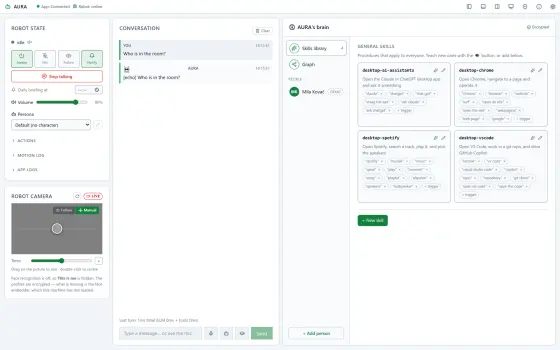
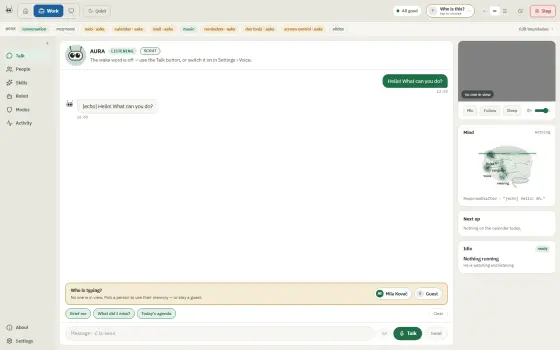
Apps: add Please Do Not Throw Richie and Runtime Rumble, refresh AURA shots
Two Devoxx browser games. Please Do Not Throw Richie takes its screenshots
from its repo; Runtime Rumble keeps none there, so four were captured from
the live game (title, a fight, the roster, the auditorium).

A release asset is only a download if you can install it. Screenshots
attached to release notes and a web game's zipped build no longer count,
so Please Do Not Throw Richie leads with Play instead of a Get button that
opened a page of PNGs. AURA and Ghosts keep theirs: they ship installers.

AURA's gallery was the August set: fetch-screenshots never refetches a file
it already has, so the repo's September refresh never arrived. Refetched,
and the console alt text now describes the current layout.

diff --git a/src/content/apps/please-do-not-throw-richie.md b/src/content/apps/please-do-not-throw-richie.md
@@ -1,0 +1,42 @@
+---
+name: "Please Do Not Throw Richie"
+code: "RICHIE"
+tag: "game"
+cat: "games"
+blurb: "Richie has a keynote in ten minutes and no legs. Hop him, get Voxxy to throw him and Biggy to hit him, and get him from registration to the stage. A Devoxx physics game for the browser."
+repo: "PleaseDoNotThrowRichie"
+demoUrl: "https://janvanwassenhove.github.io/PleaseDoNotThrowRichie/"
+order: 1
+isNew: true
+---
+
+**An irresponsible physics game for the Devoxx Belgium Robot Games.** Richie is due on the keynote stage upstairs, at the far end of Kinepolis Antwerp. Richie is down at registration. Richie has no legs, no wheels and no arms — two expressive antennae, an unfortunate relationship with gravity, and one move:
+
+**Hop.**
+
+So you hop. Then the floor runs out and Voxxy offers to *throw* him. Then a wall turns up and Biggy offers to *hit* him. Then a cinema seat reclines, twice politely, and ejects him across the room. By the end you are flinging a research robot into a crowd of developers and hoping they catch.
+
+The title was never a warning. It was a suggestion.
+
+## The expedition
+
+| Robot | What it does to Richie |
+| --- | --- |
+| **Richie** | Hops. Tumbles. Faceplants. Gets up. |
+| **Voxxy** | Picks him up, aims, and launches him across the gap. |
+| **Biggy** | Reverses, builds momentum, and hits him into the next floor. |
+| **Droid** | Reclines a cinema seat. Then **eject mode**. |
+
+Richie is the real [Reachy Mini](https://github.com/pollen-robotics/reachy_mini) geometry — the same robot that sits on my desk running [AURA](/apps/aura/), under the same name. Voxxy, Droid and Biggy are built from the official [Robot Games model sheets](https://game.devoxx.be/references.html).
+
+## The route
+
+Registration, the exhibition floor, Voxxy's gap, the grand staircase, Biggy's launch, the cinema corridor, the auditorium, the crowd, the stage — with checkpoints along the way, so a mistake costs seconds rather than the run. The escalators beside the staircase actually run, which leaves you a choice at the bottom: ride up slowly and safely, or hop the steps and find out exactly how far down they go.
+
+And security gives chase: four guards with real vision cones and real line of sight, who throw back.
+
+## Play it
+
+One build, two editions: on a laptop it is keyboard and mouse with the full lighting pass; on a phone the controls rebuild themselves around a stick and a big **HOP** button. *Add to Home Screen* installs it, and after one visit it plays with no signal at all.
+
+No account, no backend, no app store. **[Play it in your browser](https://janvanwassenhove.github.io/PleaseDoNotThrowRichie/)** — and the brief, the architecture and an honest log of how it was built with AI, failures included, are all in the [repository](https://github.com/janvanwassenhove/PleaseDoNotThrowRichie).

diff --git a/src/content/apps/runtime-rumble.md b/src/content/apps/runtime-rumble.md
@@ -1,0 +1,37 @@
+---
+name: "Runtime Rumble"
+code: "RUMBLE"
+tag: "game"
+cat: "games"
+blurb: "Five robots. Zero supervision. A 2.5D arcade party fighter set after hours at Devoxx, in six arenas with poor safety standards. In the browser, with a friend or against the machine."
+repo: "RuntimeRumble"
+demoUrl: "https://janvanwassenhove.github.io/RuntimeRumble/"
+order: 1
+isNew: true
+---
+
+**The conference is over. The fight isn't.** Kinepolis Antwerp after the last session: the booths are closed, the auditoriums are empty, and five robots have been left unsupervised. A client-side arcade fighter in the browser — pick a machine, pick an arena, and let the venue join in.
+
+## The roster
+
+Every fighter has its own mass, acceleration, friction, reach, power, jump and recovery, so they do not just look different — they move differently.
+
+- **Voxxy** — the friendly yeeter. A fast all-rounder that throws and slingshots.
+- **Droid** — root access granted. Tall, long reach, and able to arm the hazards around it.
+- **Biggy** — the absolute unit. Heavy, slow to stop, and very hard to stop once it is not.
+- **Richie Mini** — no limbs, no problem. Hops, bonks, throws a tantrum, and plays dead.
+- **Microduck** — eight hundred grams of confidence. Tiny rushdown with a beak lock.
+
+Overclock gives any of them five seconds of being more themselves than is strictly safe. Voxxy, Droid and Biggy are the same model-sheet builds as in [Please Do Not Throw Richie](/apps/please-do-not-throw-richie/); Richie is the real Reachy Mini, animated on its actual neck and antenna joints.
+
+## The arena is the sixth fighter
+
+Six slices of the building, each with a hazard of its own: the **exhibition hall** with a booth that flips, the **grand staircase** with a drop either side, the **cinema corridor** when a session lets out, the **auditorium**, where the recliners launch, the **keynote stage** and its lift, and the **robot lab**, where a factory reset switches your specials off.
+
+## How to play
+
+**Arcade** takes you through the roster to an overclocked rival on the keynote stage. **Local versus** puts two players on one keyboard, two controllers, or one of each. **Chaos** is thirty-second rounds with every hazard live. **Training** gives you a dummy and no clock. Keys can be rebound, controllers just work, and on a phone a stick and a fight-stick cluster appear on their own.
+
+It installs from the browser and runs offline after the first visit. No account, no server, no robot required.
+
+**[Play it](https://janvanwassenhove.github.io/RuntimeRumble/)** · source on [GitHub](https://github.com/janvanwassenhove/RuntimeRumble).
